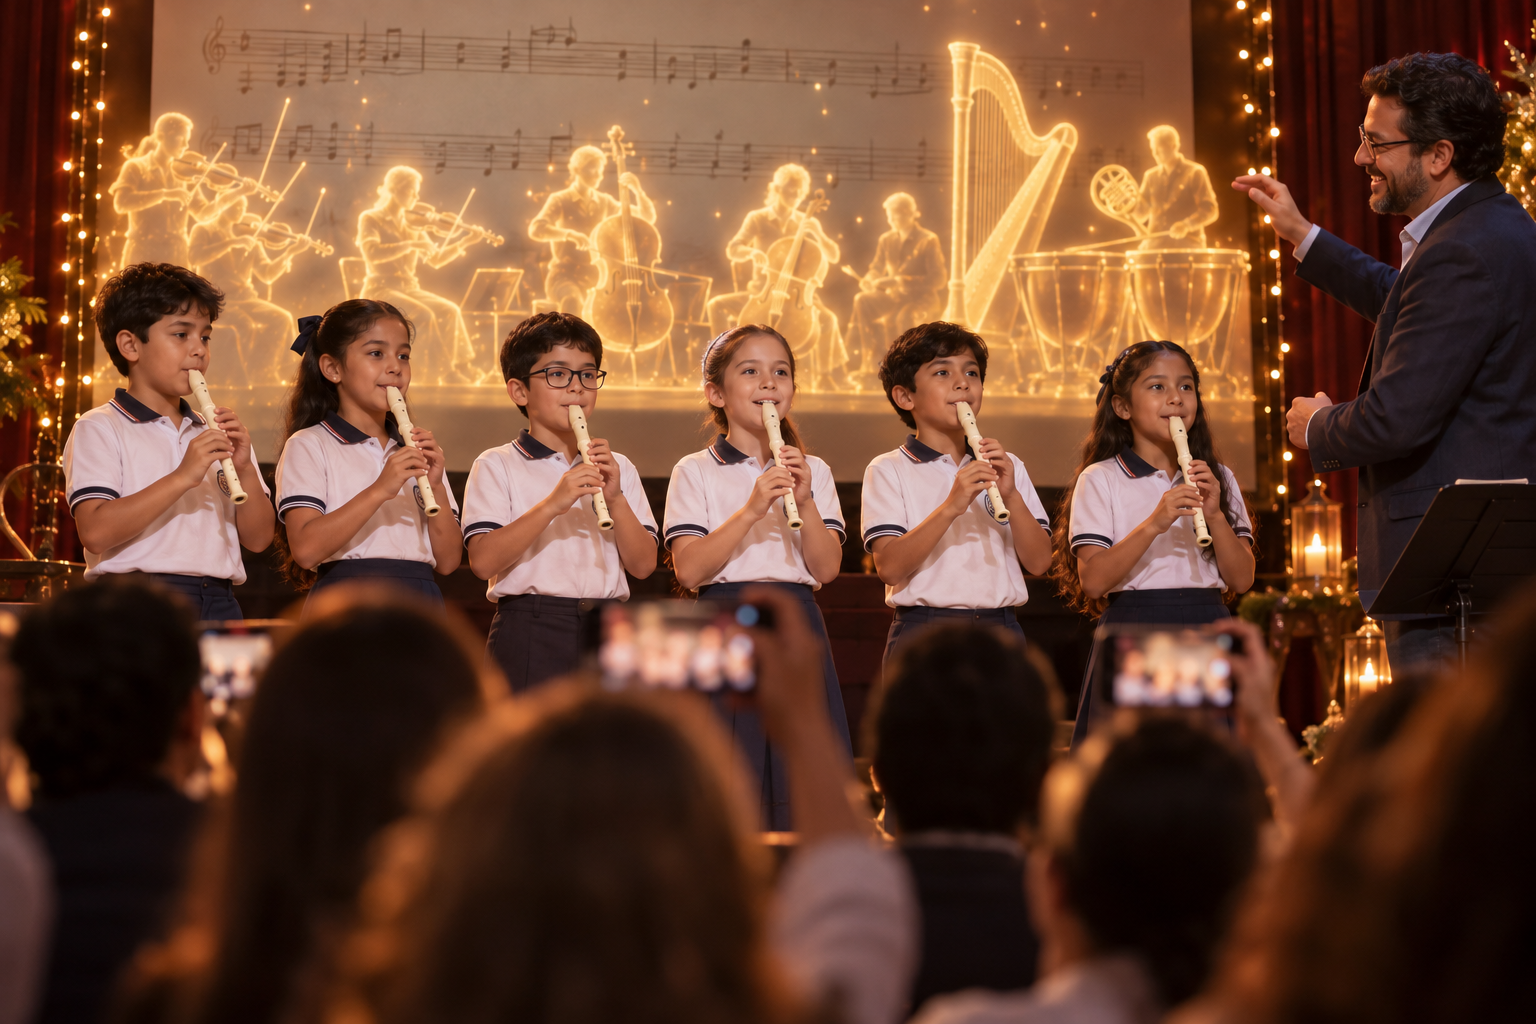
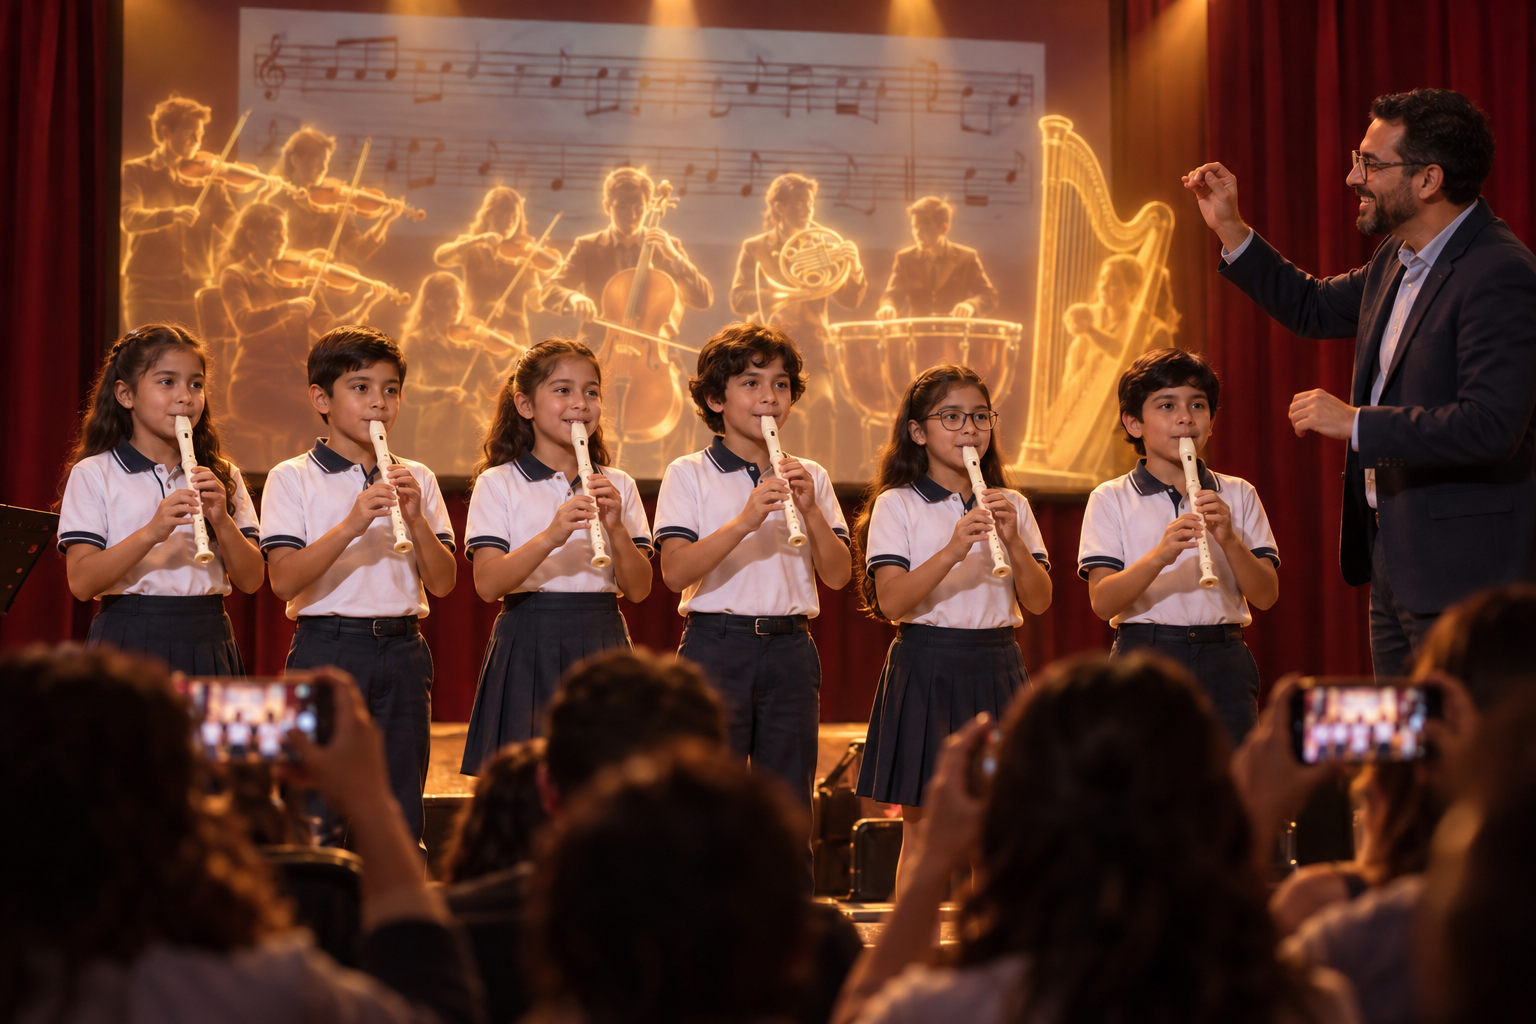
Variante «Presentación» sin referencias estacionales
El ángulo pasa de «presentación de fin de año / festival navideño» a
«tu próxima presentación o acto escolar», para que la página siga
vendiendo todo el año:
- Textos: insignia, cifras, dolor, logros, autor, resumen y meta
  description sin fechas ni temporadas. Se mantienen los textos del
  producto (nombre del Bono 3 y géneros del catálogo).
- Imagen: nueva portada en un escenario escolar neutro, sin árboles,
  luces, velas ni adornos navideños (gpt-image-2.5-sunburst).
Esqueleto, alturas a 375/1280 px y tracking siguen idénticos.

Claude-Session: https://claude.ai/code/session_01Nibu2Y8ffFkRz3rqnZerJ4

diff --git a/presentacion.html b/presentacion.html
@@ -5,10 +5,10 @@
 <meta name="viewport" content="width=device-width, initial-scale=1">
 <link rel="icon" href="data:,">
 <title>Dolce 365 — Tu presentación de flauta dulce, con orquesta</title>
-<meta name="description" content="Tu presentación de fin de año o festival navideño de flauta dulce, con una orquesta de 15+ instrumentos detrás. 5 velocidades por obra para ensayar. Pago único y 7 días de garantía.">
+<meta name="description" content="Tu presentación escolar de flauta dulce, con una orquesta de 15+ instrumentos detrás. 5 velocidades por obra para ensayar. Pago único y 7 días de garantía.">
 <link rel="preload" href="fuentes/poppins-700.woff2" as="font" type="font/woff2" crossorigin>
 <link rel="preload" href="fuentes/poppins-500.woff2" as="font" type="font/woff2" crossorigin>
-<link rel="preload" as="image" href="imagenes/opt/hero-presentacion-1024.06a23a46.webp" imagesrcset="imagenes/opt/hero-presentacion-400.55553742.webp 400w, imagenes/opt/hero-presentacion-600.26897e63.webp 600w, imagenes/opt/hero-presentacion-800.4170e31b.webp 800w, imagenes/opt/hero-presentacion-1024.06a23a46.webp 1024w" imagesizes="(min-width: 1350px) 1080px, 80vw" fetchpriority="high">
+<link rel="preload" as="image" href="imagenes/opt/hero-presentacion-1024.e991e4bd.webp" imagesrcset="imagenes/opt/hero-presentacion-400.eed9fd25.webp 400w, imagenes/opt/hero-presentacion-600.c427f26c.webp 600w, imagenes/opt/hero-presentacion-800.2f924641.webp 800w, imagenes/opt/hero-presentacion-1024.e991e4bd.webp 1024w" imagesizes="(min-width: 1350px) 1080px, 80vw" fetchpriority="high">
 <style>
 /* ══════════════════════════════════════════════════════════════════
    LANDER HÍBRIDA — «Sugerencias de Claude»
@@ -309,14 +309,14 @@ fbq('track','ViewContent',{content_name:'Partituras orquestadas flauta dulce',
 
 <!-- ═════ HERO ═════
      Variante «Presentación»: mismo esqueleto validado; solo cambia el
-     mensaje, centrado en la presentación de fin de año / festival
-     navideño. Promete un MOMENTO —el escenario y los papás—. -->
+     mensaje, centrado en la próxima presentación escolar (sin fechas:
+     sirve todo el año). Promete un MOMENTO —el escenario y los papás—. -->
 <section class="sec hero" id="hero">
   <div class="col">
-    <p class="insignia">✦ Para tu presentación de fin de año</p>
+    <p class="insignia">✦ Para tu presentación o acto escolar</p>
     <h1 class="hero-titulo">La <span class="manuscrita">Presentación</span> de Flauta Dulce que los papás no van a olvidar. <span class="emocion">Tus alumnos tocando con orquesta detrás.</span></h1>
     <p class="hero-sub">Partituras orquestadas tipo karaoke: cada obra trae su propia <strong>orquesta de 15 instrumentos</strong>, que arranca en cuanto tu grupo sopla la primera nota. Das play en el escenario… <strong>y tu grupo suena a concierto.</strong></p>
-    <figure class="img" style="--ar:3/2"><img src="imagenes/opt/hero-presentacion-1024.06a23a46.webp" srcset="imagenes/opt/hero-presentacion-400.55553742.webp 400w, imagenes/opt/hero-presentacion-600.26897e63.webp 600w, imagenes/opt/hero-presentacion-800.4170e31b.webp 800w, imagenes/opt/hero-presentacion-1024.06a23a46.webp 1024w" sizes="(min-width: 1350px) 1080px, 80vw" width="1024" height="683" style="max-width:1024px" alt="Niños en el escenario tocando flauta dulce con una orquesta de luz detrás, mientras sus papás los graban" fetchpriority="high" decoding="async"><figcaption>HERO</figcaption></figure>
+    <figure class="img" style="--ar:3/2"><img src="imagenes/opt/hero-presentacion-1024.e991e4bd.webp" srcset="imagenes/opt/hero-presentacion-400.eed9fd25.webp 400w, imagenes/opt/hero-presentacion-600.c427f26c.webp 600w, imagenes/opt/hero-presentacion-800.2f924641.webp 800w, imagenes/opt/hero-presentacion-1024.e991e4bd.webp 1024w" sizes="(min-width: 1350px) 1080px, 80vw" width="1024" height="683" style="max-width:1024px" alt="Niños en el escenario tocando flauta dulce con una orquesta de luz detrás, mientras sus papás los graban" fetchpriority="high" decoding="async"><figcaption>HERO</figcaption></figure>
   </div>
   <div class="onda-abajo" aria-hidden="true"><svg viewBox="0 0 1280 140" preserveAspectRatio="none"><path fill="#F7F0E6" d="M320 28c320 0 320 84 640 84 160 0 240-21 320-42v70H0V70c80-21 160-42 320-42z"/></svg></div>
 </section>
@@ -326,7 +326,7 @@ fbq('track','ViewContent',{content_name:'Partituras orquestadas flauta dulce',
 
     <!-- Cifras (lander vieja): cuatro números que no envejecen. -->
     <div class="cifras">
-      <div class="cifra"><b>+200</b><span>obras orquestadas, navideñas incluidas</span></div>
+      <div class="cifra"><b>+200</b><span>obras orquestadas listas para tocar hoy</span></div>
       <div class="cifra"><b>5</b><span>velocidades para ensayar cada obra</span></div>
       <div class="cifra"><b>15+</b><span>instrumentos detrás de tu grupo</span></div>
       <div class="cifra"><b>Gratis</b><span>las obras nuevas de cada semana</span></div>
@@ -335,7 +335,7 @@ fbq('track','ViewContent',{content_name:'Partituras orquestadas flauta dulce',
 
     <!-- Dolor (mentor). El enemigo es la flauta sonando sola en el escenario, nunca el maestro. -->
     <div class="dolor">
-      <p>Faltan semanas para la presentación y la mitad del grupo todavía no se sabe la obra…</p>
+      <p>Se acerca la presentación y la mitad del grupo todavía no se sabe la obra…</p>
       <p>…y ya te imaginas a tu grupo en el escenario, con la flauta sonando sola frente a los papás.</p>
     </div>
 
@@ -400,7 +400,7 @@ fbq('track','ViewContent',{content_name:'Partituras orquestadas flauta dulce',
       <p>✅ <strong>Que el que va atrasado también salga a tocar</strong><br>Ensaya a media velocidad y llega a la presentación con todos. Nadie se queda mirando.</p>
       <p>✅ <strong>Que toquen aunque no lean partitura</strong><br>El Do-Re-Mi aparece debajo de cada nota y se enciende o se apaga con un toque.</p>
       <p>✅ <strong>Que nadie se pierda a mitad de la obra</strong><br>La nota se ilumina mientras suena y la página pasa sola.</p>
-      <p>✅ <strong>Un repertorio listo para tu festival de fin de año</strong><br>Navideñas, clásicas, infantiles y tradicionales, listas para tocar.</p>
+      <p>✅ <strong>Un repertorio listo para cada acto escolar del año</strong><br>Clásicas, infantiles, navideñas y tradicionales, listas para tocar.</p>
       <p>✅ <strong>Dirigir en vez de acompañar</strong><br>El día de la presentación das play y diriges. Sin ensayar el acompañamiento ni quedarte pegado al piano.</p>
       <p>✅ <strong>Llevarlo al auditorio</strong><br>Proyector, tablet, celular o laptop, sin instalar nada. O descarga los audios en MP3 para el equipo de sonido del evento.</p>
     </div>
@@ -424,7 +424,7 @@ fbq('track','ViewContent',{content_name:'Partituras orquestadas flauta dulce',
     <div class="texto">
       <p>✅ <strong>Soy Enrique Morales Gómez</strong>, maestro de música de primaria, arreglista y creador de Dolce 365. Lo construí después de entender algo que cambió mi forma de preparar las presentaciones de flauta dulce:</p>
       <p><strong>Para que una presentación emocione, no hace falta ensayar más.</strong> Hace falta que suene a música.</p>
-      <p>Por eso cada obra trae su orquesta y sus cinco velocidades: para que cualquier maestro la lleve al escenario este fin de año.</p>
+      <p>Por eso cada obra trae su orquesta y sus cinco velocidades: para que cualquier maestro la lleve a su próxima presentación.</p>
     </div>
 
     <!-- Catálogo (lander vieja): reemplaza a la captura de baja resolución. -->
@@ -627,7 +627,7 @@ fbq('track','ViewContent',{content_name:'Partituras orquestadas flauta dulce',
 
     <h2 class="titulo-color">¿No leíste todo? Te lo resumo…</h2>
     <div class="resumen">
-      <p>Si quieres que tu presentación de fin de año suene a concierto, que nadie se quede fuera y que los papás salgan emocionados, <strong>Dolce 365 tiene todo listo para ensayar desde hoy.</strong></p>
+      <p>Si quieres que tu próxima presentación suene a concierto, que nadie se quede fuera y que los papás salgan emocionados, <strong>Dolce 365 tiene todo listo para ensayar desde hoy.</strong></p>
     </div>
     <div class="recuadro">
       <p><strong>•La idea es simple:</strong> una presentación se recuerda por cómo suena. Con una orquesta detrás, suena a concierto.</p>
